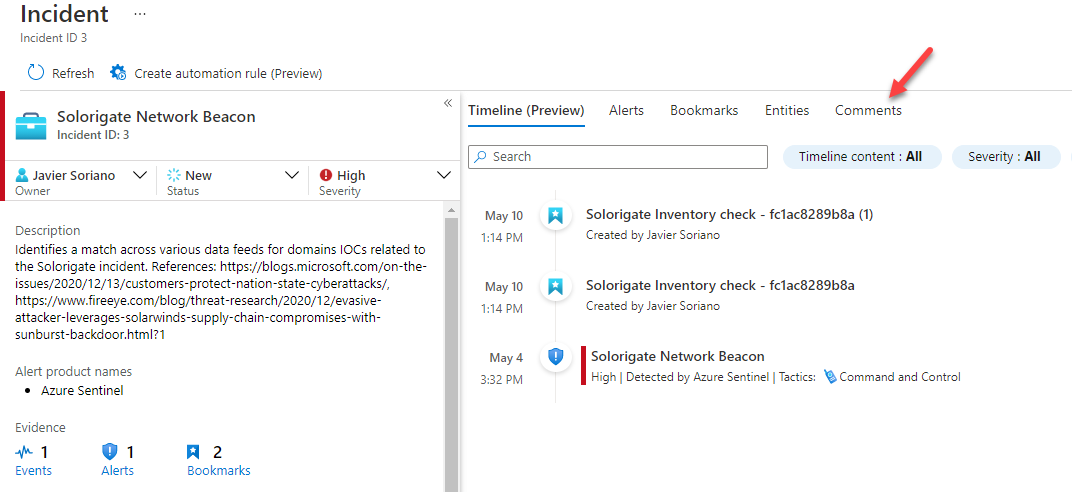
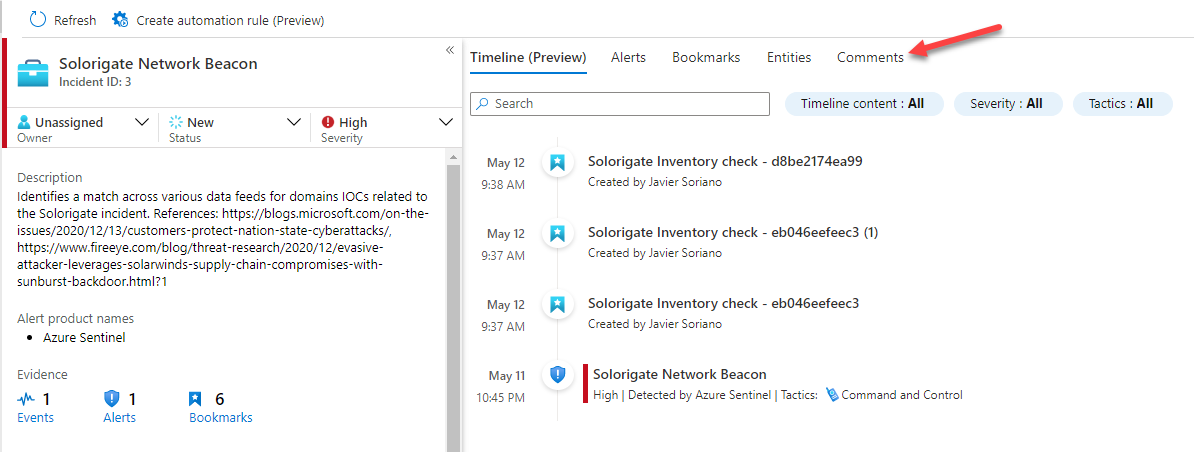
new pictures

diff --git a/Modules/Module-5-Hunting.md b/Modules/Module-5-Hunting.md
@@ -6,7 +6,7 @@
 This module will guide you through a basic incident handling task in Azure Sentinel. This includes pivoting to hunting to collect additional evidence.
 
 #### Prerequisites
-This module assumes that you have completed LAB01-Setup part, as the data and the artifacts that we will be using in this module need to be deployed on your Azure Sentinel instance.
+This module assumes that you have completed [Module 1](Module-1-Setting-up-the-environment.md), as the data and the artifacts that we will be using in this module need to be deployed on your Azure Sentinel instance.
 
 ### Exercise 1: Acknowldge incident
 
@@ -20,7 +20,7 @@ This module assumes that you have completed LAB01-Setup part, as the data and th
 
 ![incident2](../Images/incident2.png)
 
-4. Read the description of the incident. As you can see, an IOC related to Solorigate attack has been found. In this case, there is a host involved.
+4. Read the description of the incident. As you can see, an IOC related to Solorigate attack has been found. In this case, host **ClientPC** is involved.
 
 ### Exercise 2: Hunting for more evidence
 
@@ -34,11 +34,11 @@ This module assumes that you have completed LAB01-Setup part, as the data and th
 
 ![incident4](../Images/incident4.png)
 
-4. You should see two results. Click on *View Results*
+4. You should see a total of three results. Click on *View Results*
 
 ![incident5](../Images/incident5.png)
 
-5. As you can see, there's two additional computers where the malicious DLL and named pipe has been found. Bookmark these two records, selecting them and then click on on *Add bookmark*.
+5. As you can see, besides **ClienPC**, there's two additional computers where the malicious DLL and named pipe has been found. Bookmark all three records, selecting them and then click on on *Add bookmark*.
 
 ![incident6](../Images/incident6.png)
 
